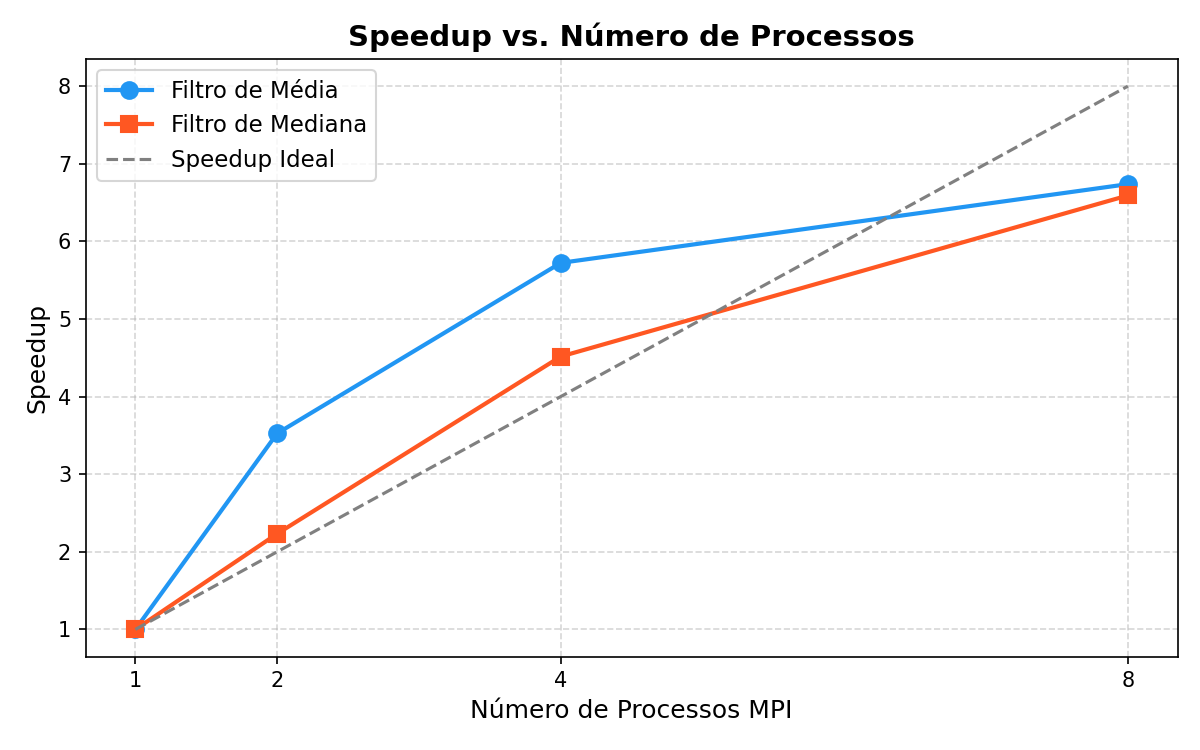
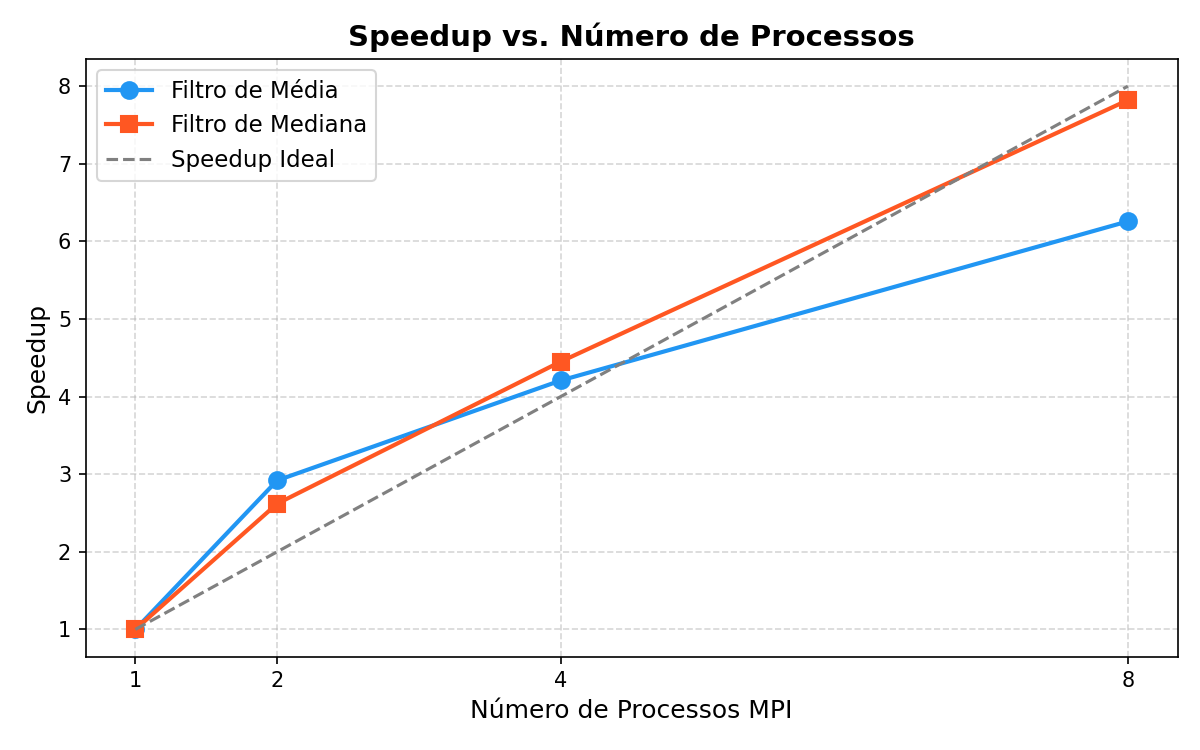
feat: resultados do benchmark na máquina kfrural (i7-13650HX, 14 cores, 31GB RAM)

diff --git a/README.md b/README.md
@@ -126,12 +126,41 @@ Exemplo: Se a imagem tem 10 linhas e são 3 processos (10/3 dá resto 1). O Proc
 
 ---
 
-## 💻 Máquina do dev-igor
+## 💻 Máquina do dev-kfrural
 
-- **OS:** Microsoft Windows 11 Pro 64 bits
-- **CPU:** 13th Gen Intel(R) Core(TM) i7-13620H (10 Núcleos Físicos / 16 Threads)
-- **RAM:** 16 GB
-- **Armazenamento:** SSD 512 GB (HFS512GEJ9X110N)
+- **OS:** Ubuntu 22.04.5 LTS (Linux)
+- **CPU:** 13th Gen Intel(R) Core(TM) i7-13650HX (14 Núcleos Físicos, 20 Threads)
+- **RAM:** 31 GB
+- **Cache:** L1d 544 KiB, L2 11,5 MiB, L3 24 MiB
+
+---
+
+## 📊 Resultados de Execução (dev-kfrural)
+
+### Tabela de Tempos e Speedup
+
+| Filtro | Processos | Tempo Médio (s) | Desvio Padrão (s) | Speedup |
+|--------|-----------|-----------------|-------------------|---------|
+| Média | Sequencial (1) | 0,2476 | 0,0069 | 1,0000 |
+| Média | 2 | 0,0848 | 0,0039 | 2,9194 |
+| Média | 4 | 0,0588 | 0,0019 | 4,2076 |
+| Média | 8 | 0,0396 | 0,0019 | 6,2578 |
+| Mediana | Sequencial (1) | 1,7219 | 0,0213 | 1,0000 |
+| Mediana | 2 | 0,6573 | 0,0827 | 2,6199 |
+| Mediana | 4 | 0,3869 | 0,0368 | 4,4506 |
+| Mediana | 8 | 0,2202 | 0,0086 | 7,8200 |
+
+### Gráficos
+
+![Tempo vs Processos](output/tempo_vs_processos.png)
+![Speedup vs Processos](output/speedup_vs_processos.png)
+
+### Análise dos Resultados
+
+- O **filtro de mediana** apresentou speedup superior ao de média (7,82× vs 6,26× com 8 processos), pois seu maior custo computacional por pixel (ordenação) se beneficia mais da paralelização.
+- O **speedup superlinear** observado no filtro de média com 2 processos (2,92×) deve-se provavelmente a efeitos de cache (a fatia de cada processo cabe melhor no cache L2/L3).
+- Com **8 processos**, o speedup do filtro de mediana (7,82×) se aproxima do ideal (8×), indicando boa escalabilidade.
+- O filtro de média satura mais cedo (6,26× com 8 processos) devido ao menor custo computacional por pixel, tornando o overhead de comunicação relativamente mais significativo.
 
 ---
 
